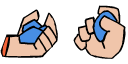
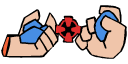
fixes

Changed region(s): [[0.0, 0.0625, 1.0, 0.9375]]

diff --git a/Assets/Scripts/FireplaceWarmth.cs b/Assets/Scripts/FireplaceWarmth.cs
@@ -4,30 +4,46 @@ using UnityEngine;
 
 public class FireplaceWarmth : MonoBehaviour
 {
-    public GameManager manager;
-    public Texture2D warmhands;
-    public Texture2D emptyhands;
-    // Start is called before the first frame update
+    private GameManager manager;
+
+    private float fireIntensity = 100;
+    private float loseSpeed = 1.2f;
+
     void Start()
     {
-        
+        manager = GameManager.Instance;
     }
 
     // Update is called once per frame
     void Update()
     {
-        transform.localScale = new(manager.GetComponent<GameManager>().Warmth*.003f, manager.GetComponent<GameManager>().Warmth*.003f, 0f);
+        fireIntensity -= 2.5f * (Time.deltaTime * loseSpeed);
+        fireIntensity = Mathf.Clamp(fireIntensity, 0, 100);
+        transform.localScale = new(fireIntensity * .003f, fireIntensity * .003f, 0f);
     }
+
+    private void OnMouseDown()
+    {
+        if(manager.Wood)
+        {
+            fireIntensity += 15;
+            manager.Wood = false;
+        }
+    }
+
+    private void OnMouseEnter()
+    {
+        if(!manager.Wood || !manager.Stone)
+            manager.ChangeCursor(manager.fireCursor);
+    }
+
     private void OnMouseOver()
     {
-
-        var managerscript = manager.GetComponent<GameManager>();
-        managerscript.ChangeCursor(warmhands);
-        managerscript.Warmth += 6.5f * (Time.deltaTime * managerscript.loseSpeed);
+        manager.Warmth += 6.5f * (Time.deltaTime * manager.loseSpeed);
     }
     private void OnMouseExit()
     {
-        var managerscript = manager.GetComponent<GameManager>();
-        managerscript.ChangeCursor(emptyhands);
+        if (!manager.Wood || !manager.Stone)
+            manager.ChangeCursor(manager.defaultCursor);
     }
 }

diff --git a/Assets/Scripts/GameManager.cs b/Assets/Scripts/GameManager.cs
@@ -18,13 +18,21 @@ public class GameManager : MonoBehaviour
     [Header("Cursors")]
     public Texture2D defaultCursor;
     // Keep separated so unity won't break with headers
-    public Texture2D fireCursor, stoneCursor;
+    public Texture2D fireCursor, stoneCursor, woodCursor;
+
+    [Header("Holding")]
+    public bool Stone = false;
+    public bool Wood = false;
 
     public static GameManager Instance;
 
-    private void Start()
+    private void Awake()
     {
         Instance = this;
+    }
+
+    private void Start()
+    {
         DontDestroyOnLoad(gameObject);
 
         timeText.text = time + "am";

diff --git a/Assets/Scripts/WoodPickup.cs b/Assets/Scripts/WoodPickup.cs
@@ -1,0 +1,26 @@
+using System.Collections;
+using System.Collections.Generic;
+using UnityEngine;
+
+public class WoodPickup : MonoBehaviour
+{
+    GameManager manager;
+    private void Start()
+    {
+        manager = GameManager.Instance;
+    }
+
+    private void OnMouseDown()
+    {
+        if (!manager.Wood)
+        {
+            manager.Wood = true;
+            manager.ChangeCursor(manager.woodCursor);
+        }
+        else
+        {
+            manager.Wood = false;
+            manager.ChangeCursor(manager.defaultCursor);
+        }
+    }
+}
